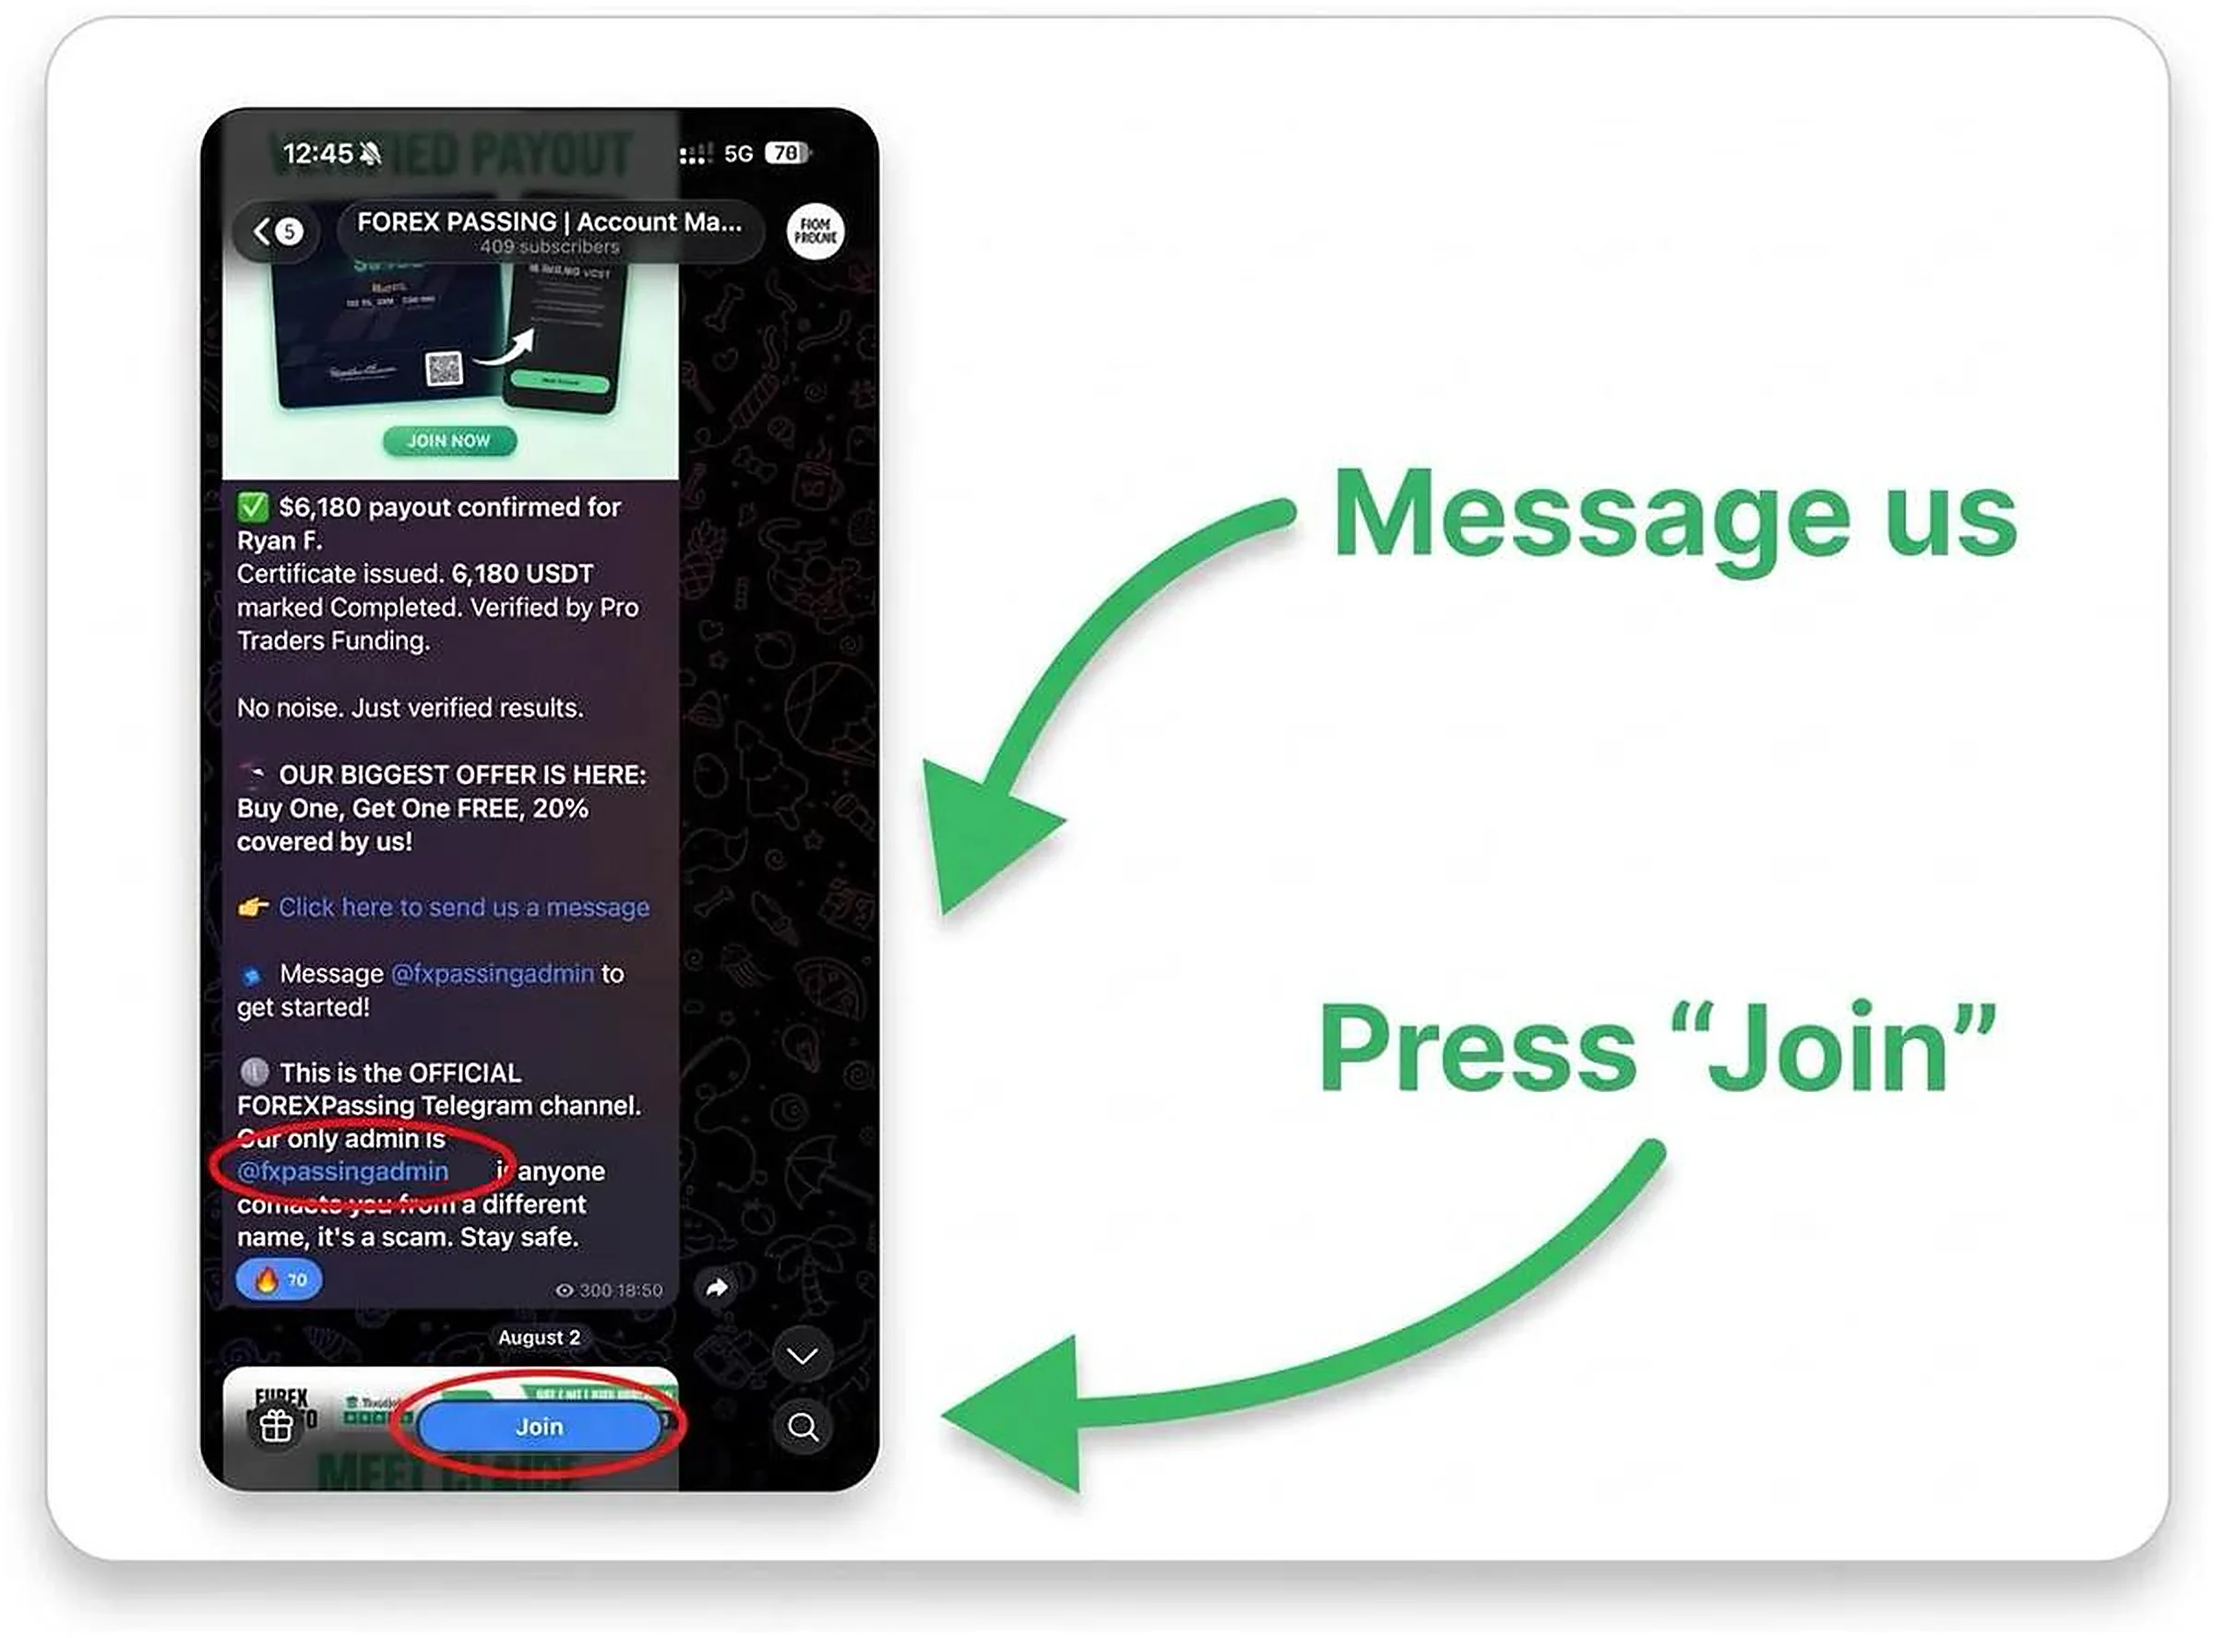
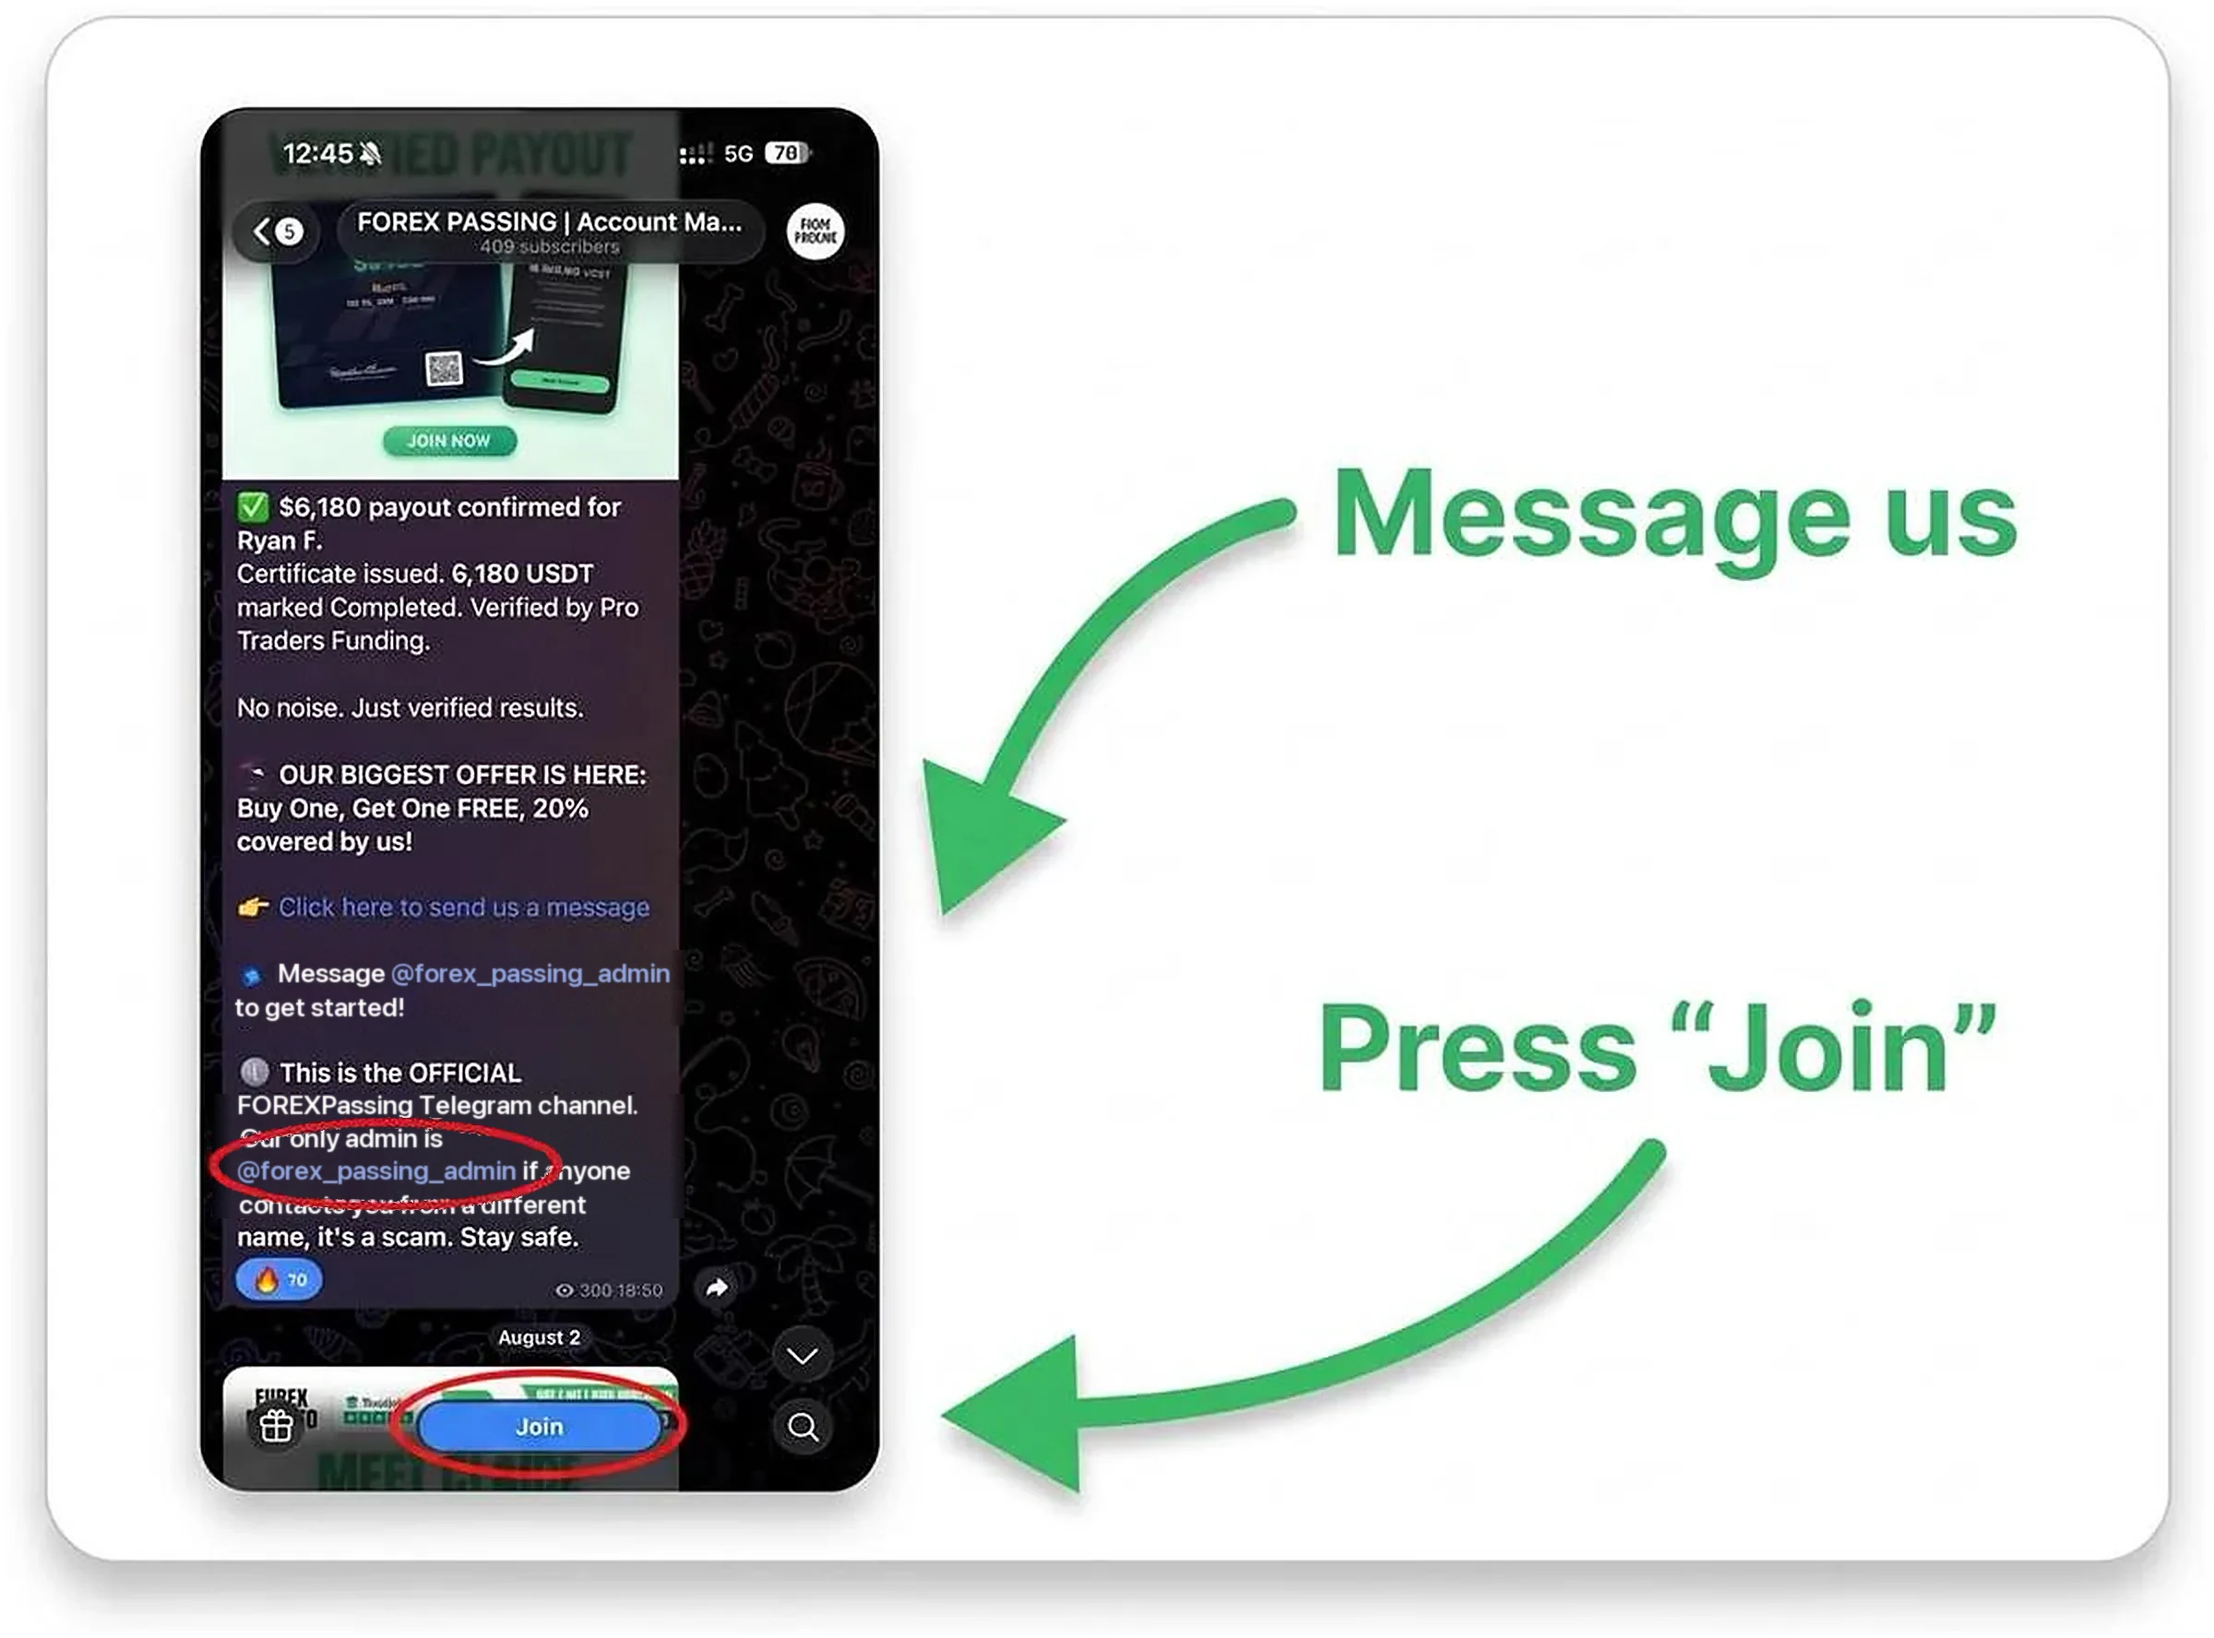
fix(thank-you): zrzut Telegrama pokazywal stary uchwyt admina
typ-telegram.webp szedl na produkcje z "@fxpassingadmin" w OBU miejscach, w tym
w czerwonym kolku przy zdaniu "our only admin is ...; anyone else is a scam".
Grafika mowila wiec klientowi, ze @forex_passing_admin - uchwyt z filmow, ze
strony i z maili - jest oszustem, a pierwszy kto zajmie @fxpassingadmin dostaje
od nas certyfikat autentycznosci.

Post na kanale @forex_passing byl juz poprawiony; nieaktualny byl sam zrzut.

Retusz, nie nowy screenshot: oba wystapienia przerysowane SF Pro semibold 29 px
z rozmyciem 0,8 - parametry dobrane minimalizacja bledu bezwzglednego wobec
linii "name, it's a scam. Stay safe.", ktora zostaje nietknieta i sluzy za
wzorzec (blad 32,0 wobec 36,2 dla regular 30 px). Tlo odtworzone z profilu
poziomego czystych wierszy nad i pod regionem, nie plaskim kolorem - babel ma
gradient i ziarno, plama czyta sie jak lata. Czerwona elipsa rozciagnieta
w poziomie 1,15 od lewej krawedzi, bo nowy uchwyt jest o 78 px dluzszy
i konczyl sie dokladnie na jej prawym luku; luz za uchwytem 51 px wobec 58
w oryginale.

Wymiary bez zmian: 2400x1776, proporcje 1,3514 = ratio "1200 / 888" wpisane
w ThankYouPage.tsx. 163 KB wobec 156 KB.

Komentarz w constants.ts twierdzil, ze plik JEST wyretuszowany - dlatego nikt
tego nie zlapal. Teraz mowi, co sie stalo, i kaze obejrzec plik na oczy.

Changed region(s): [[0.0938, 0.6503, 0.2812, 0.7432], [0.0938, 0.5884, 0.3125, 0.6194]]

diff --git a/STRONA/src/constants.ts b/STRONA/src/constants.ts
@@ -177,12 +177,18 @@ export const FREE_TELEGRAM_HANDLE = '@FXPassing_free'
 // TYP_TELEGRAM_SHOT_SRC: zrzut z Telegrama ze strzałką na "Message us" i na
 // przycisk "Join". Bez niego część ludzi nie wie, w co kliknąć po wejściu.
 //
-// ⚠ NICK ADMINA JEST W TYM PLIKU RETUSZOWANY. Makieta przyszła z
-// „@forexpassingadmin" w obu miejscach, a nasz uchwyt to „@forex_passing_admin"
-// (TELEGRAM_ADMIN_HANDLE wyżej, on też jest właścicielem kanału). Zdanie
-// „our only admin is …" jest zakreślone na czerwono, więc zły nick wskazywałby
-// tam uchwyt, którego nie kontrolujemy. Podmieniając plik SPRAWDŹ OBA
-// WYSTĄPIENIA — to przy „Message …" i to w kółku.
+// ⚠ NICK ADMINA W TYM PLIKU JEST RETUSZOWANY — i do 2026-09-19 NIE BYŁ, mimo że
+// ten komentarz tak twierdził. Zrzut szedł na produkcję z „@fxpassingadmin"
+// w OBU miejscach, w tym w czerwonym kółku przy zdaniu „our only admin is …;
+// anyone else is a scam" — czyli grafika mówiła klientowi, że uchwyt z filmów
+// i z reszty strony jest oszustem. Grep tego nie łapie, bo to piksele, a fałszywy
+// komentarz kazał sądzić, że sprawa załatwiona.
+//
+// PRZY KAŻDEJ ZMIANIE UCHWYTU OTWÓRZ TEN PLIK I ZOBACZ NA OCZY. Dwa wystąpienia:
+// przy „Message …" i to w kółku. Sam post na kanale jest poprawiany na bieżąco,
+// więc nieaktualny bywa wyłącznie zrzut — najtaniej zrobić nowy screenshot
+// z @forex_passing zamiast retuszować (2400x1776, proporcje 1200/888 są wpisane
+// na sztywno w ThankYouPage.tsx, a .mm-typ-shot ma object-fit:cover).
 export const TYP_TELEGRAM_SHOT_SRC: string = '/typ-telegram.webp'
 export const TEAM_PHOTO_SRC: string = '/typ-team.webp'
 
